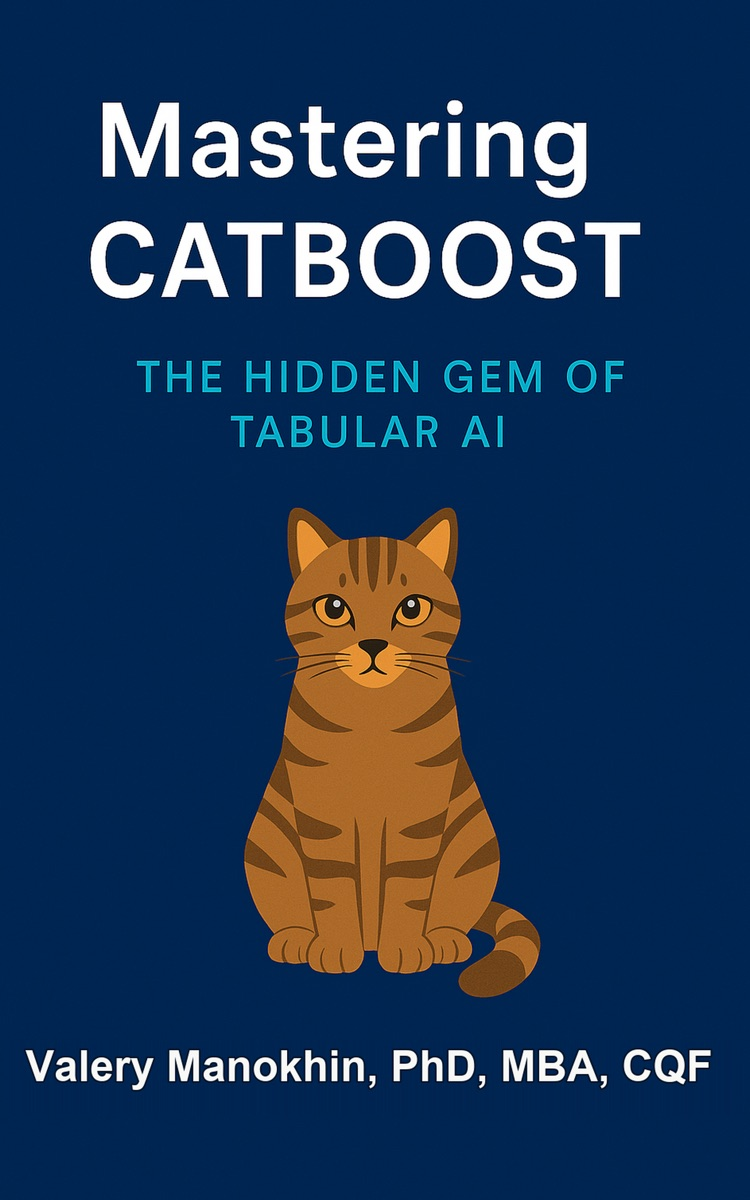
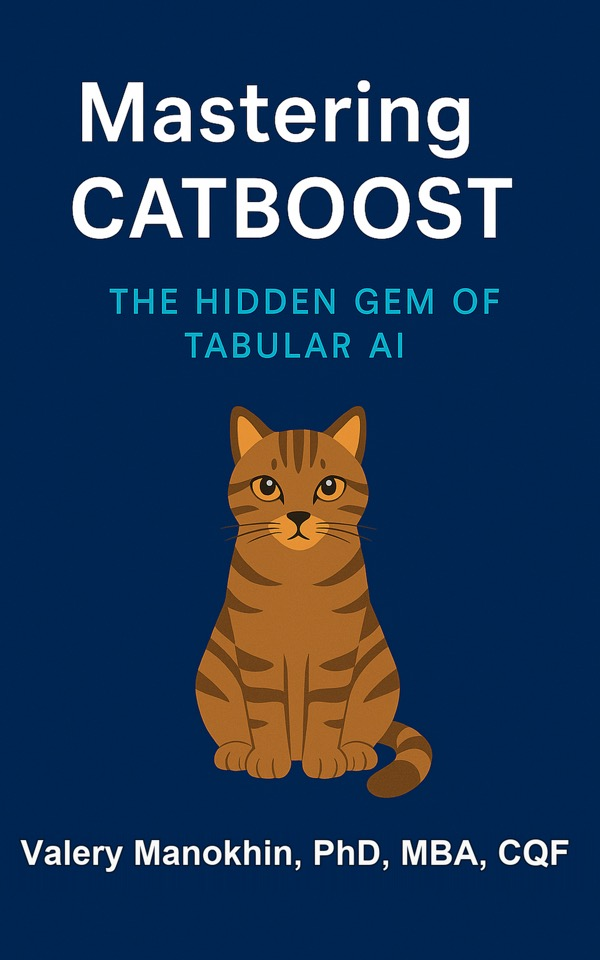
Reduce README cover payload and decode asynchronously

diff --git a/README.md b/README.md
@@ -8,7 +8,7 @@ Curated by [Valeriy Manokhin, PhD, MBA, CQF](https://valeriy.ai).
 
 ## Mastering CatBoost
 
-![Mastering CatBoost](book-cover.jpg)
+<img src="book-cover.jpg" alt="Mastering CatBoost" width="420" loading="lazy" decoding="async">
 
 **Mastering CatBoost: The Hidden Gem of Tabular AI** is the practical companion
 to this list. It follows CatBoost from ordered statistics and symmetric trees
